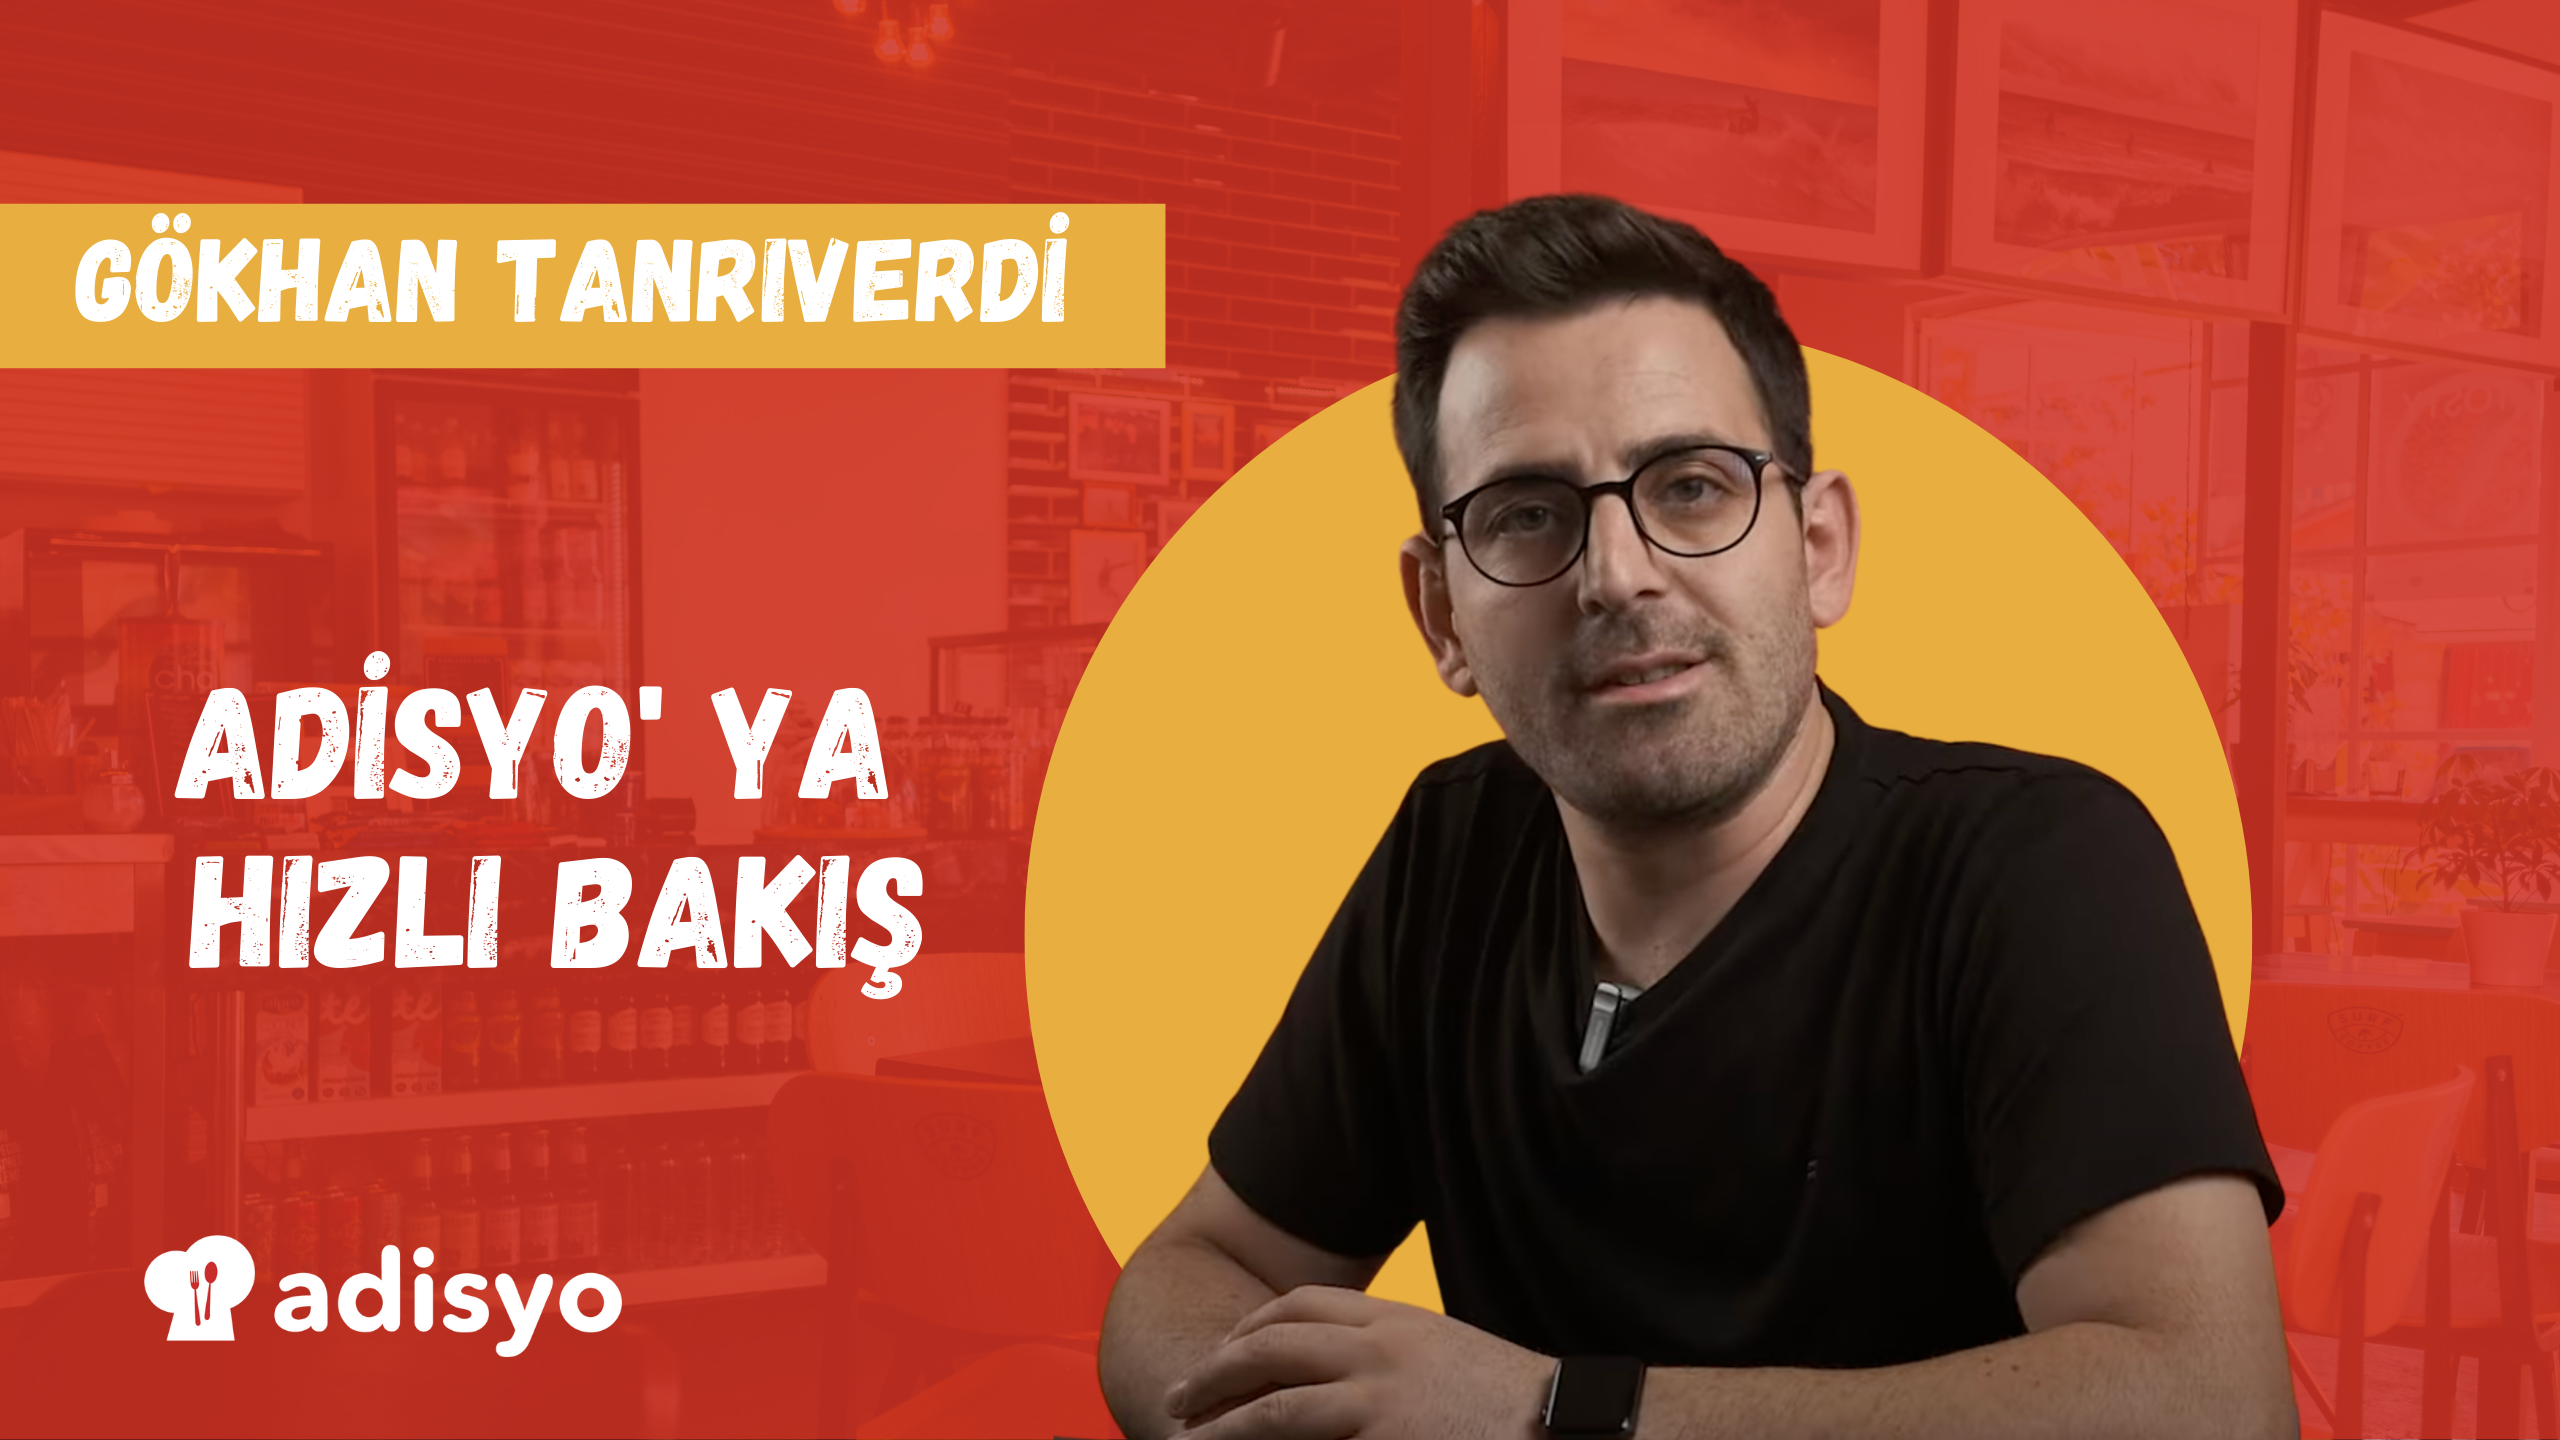
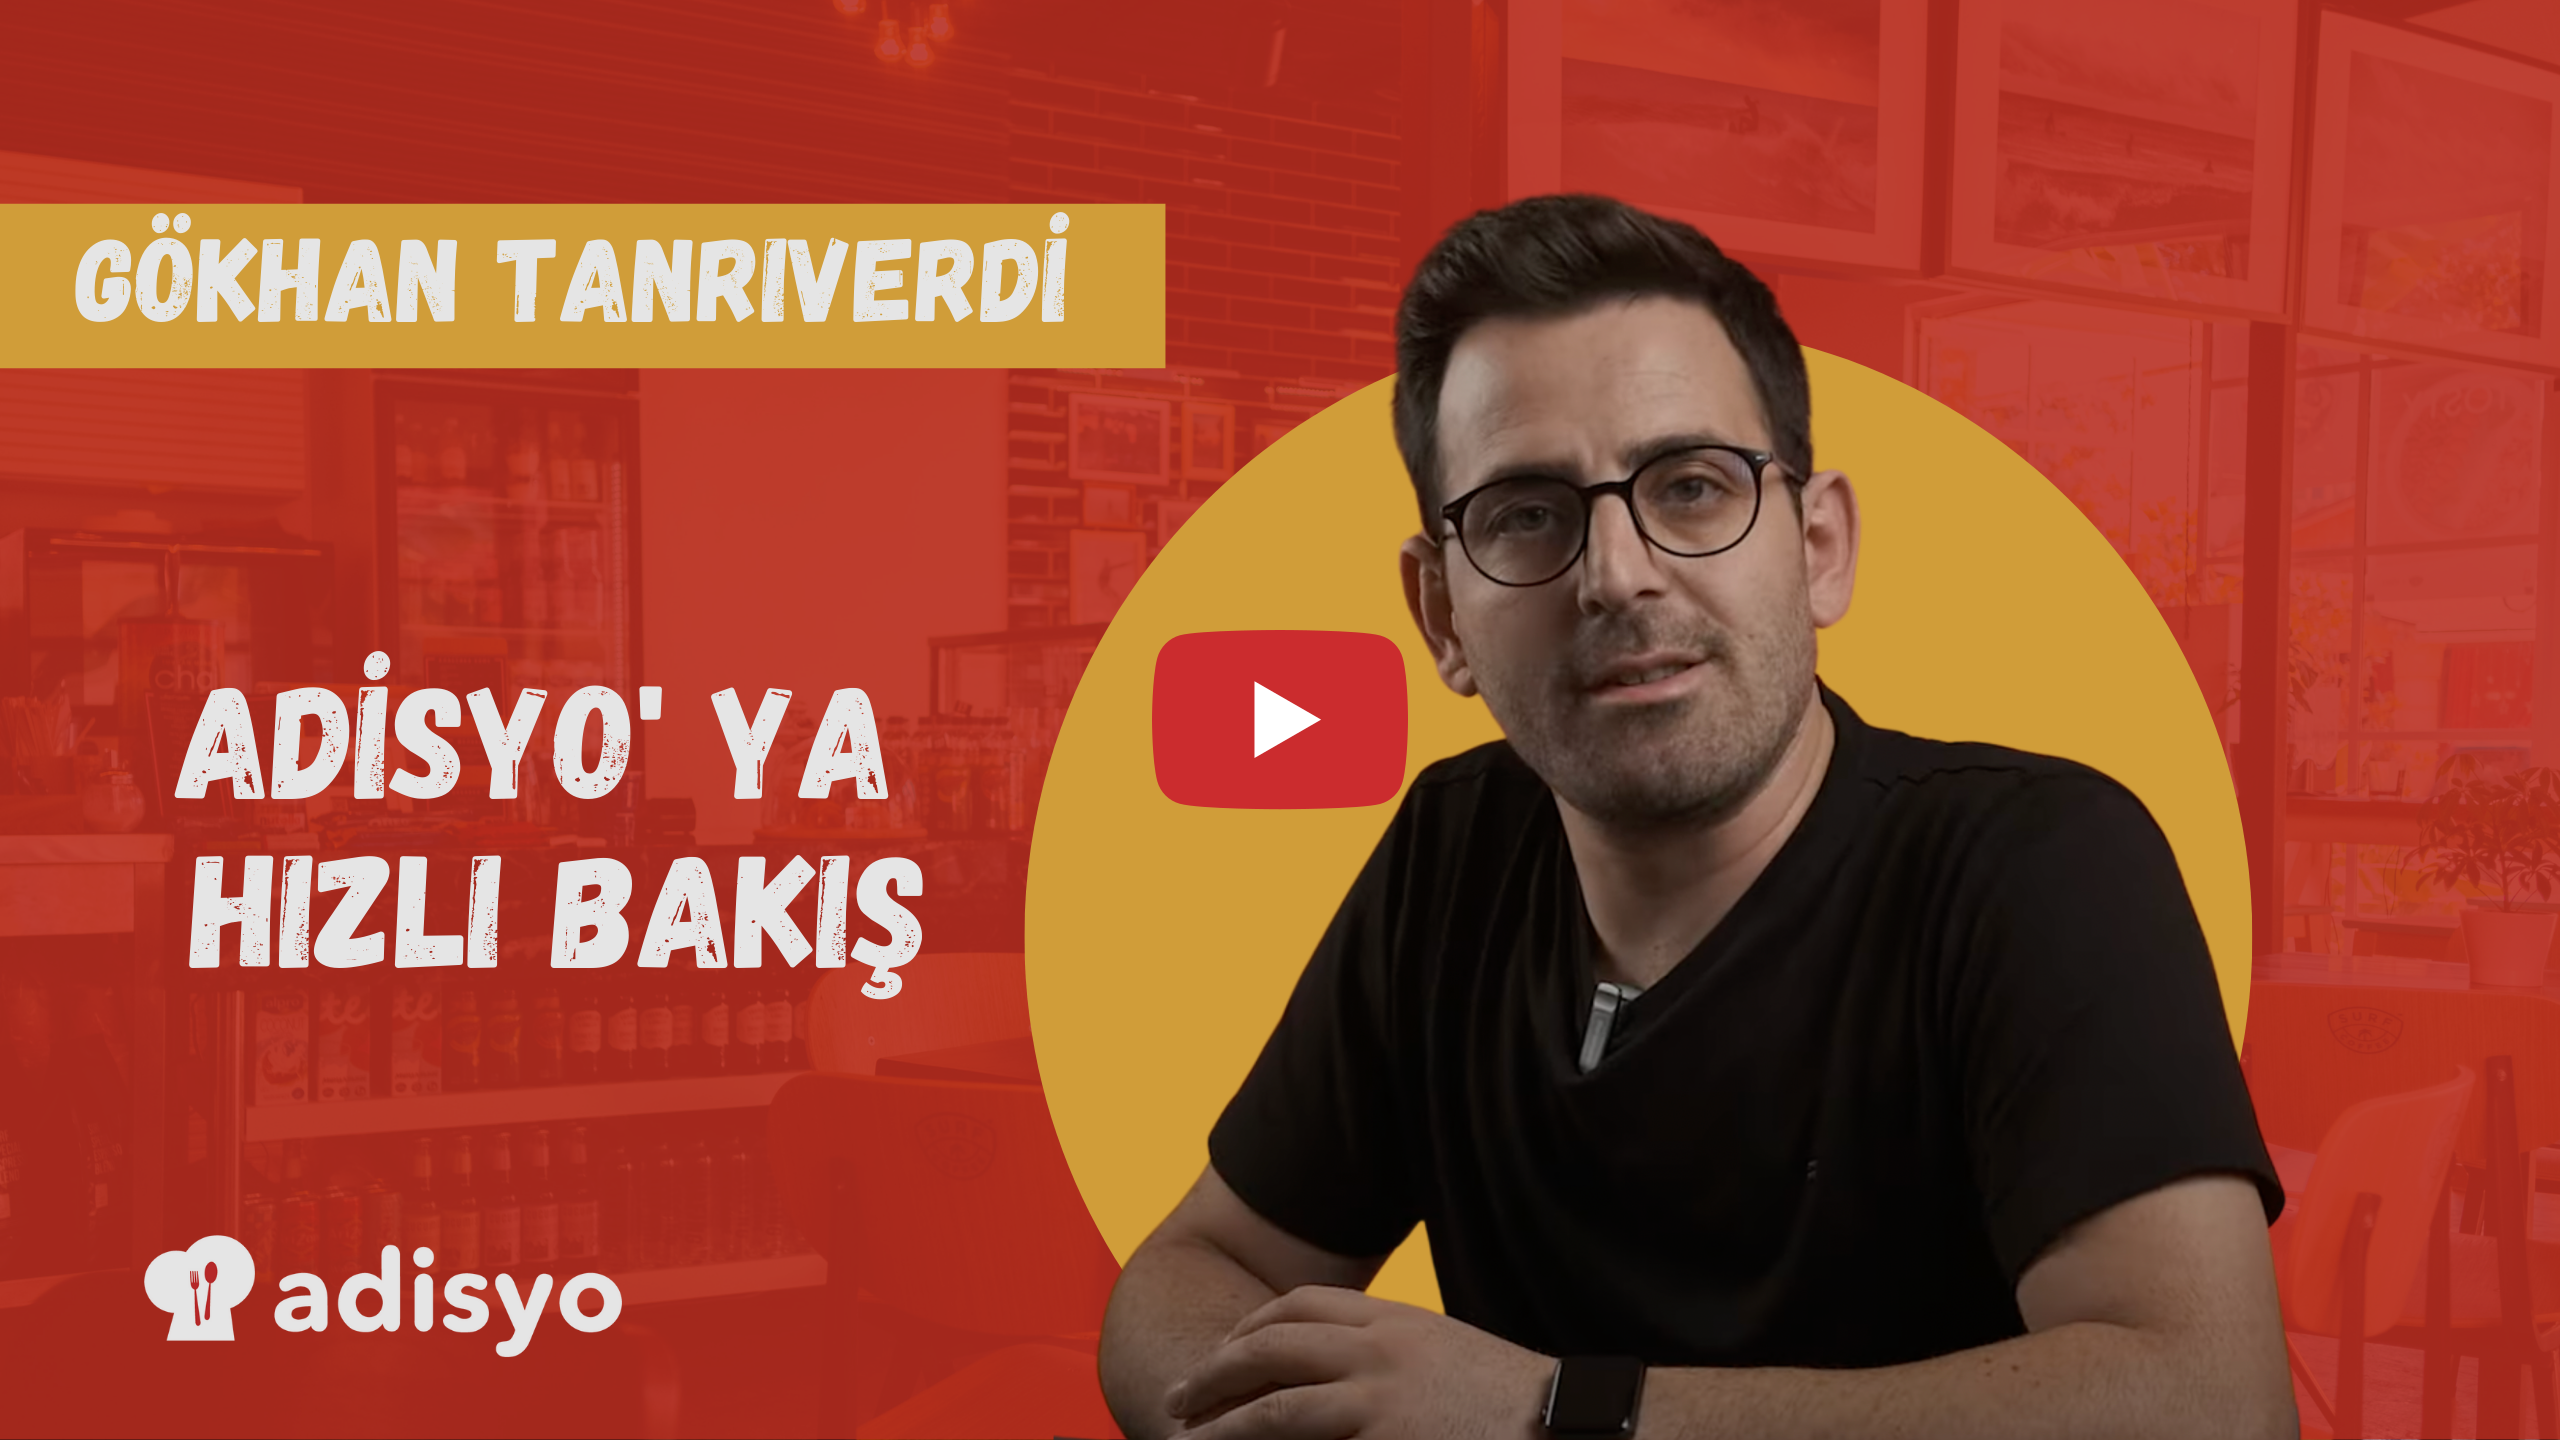
feat: tanıtım videosu

diff --git a/_layouts/home.html b/_layouts/home.html
@@ -31,19 +31,8 @@ layout: wrapper
             </div>
             <div class="col-lg-6 text-right">
                 <div class="slider_img w-100">
-                    <!-- <iframe allow="*" src="https://www.youtube.com/embed/0CmxvnAZuTM?showinfo=0&rel=0&iv_load_policy=3"
-                        title="Adisyo' ya Hızlı Bakış" frameborder="0" class="w-100 mt-5 mt-lg-0"
-                        style="height: 525px;border-radius: 10px;"></iframe> -->
-                    <!-- <iframe
-                        src="https://player.vimeo.com/video/749583606?h=eedb004e7d&amp;badge=0&amp;autopause=0&amp;player_id=0&amp;app_id=58479"
-                        frameborder="0" allow="autoplay; fullscreen; picture-in-picture" allowfullscreen class="w-100"
-                        title="Adisyo&amp;#039; ya Hızlı Bakış" style="height: 525px;border-radius: 10px;"></iframe> -->
-
-                    <!-- <img class="app_screen mb_20 two wow fadeInDown animated" src="/assets/img/home/ipad-adisyo3.png"
-                        alt="adisyo-banner" style="visibility: visible; animation-name: animateUpDown;"> -->
-
-                    <video id="tanitim_video" controls class="h-100 w-100 mt-5 mt-lg-0" preload="auto"
-                        poster="/assets/img/home/tanitim.png" style="border-radius: 10px;">
+                    <video id="tanitim_video" style="border-radius: 10px;" class="h-100 w-100 mt-5 mt-lg-0"
+                        preload="auto" poster="/assets/img/home/tanitim.png">
                         <source src="/assets/img/home/tanitim.mp4" type="video/mp4" />
                     </video>
                 </div>
@@ -51,6 +40,20 @@ layout: wrapper
         </div>
     </div>
 </section>
+
+<script>
+    var video = document.getElementById('tanitim_video');
+    if (video)
+        video.addEventListener('click', (v) => {
+            if (!video.hasAttribute('controls')) {
+                video.setAttribute('controls', 'controls');
+
+                setTimeout(() => {
+                    video.play();
+                }, 500);
+            }
+        });
+</script>
 
 <!--partners logo-->
 
